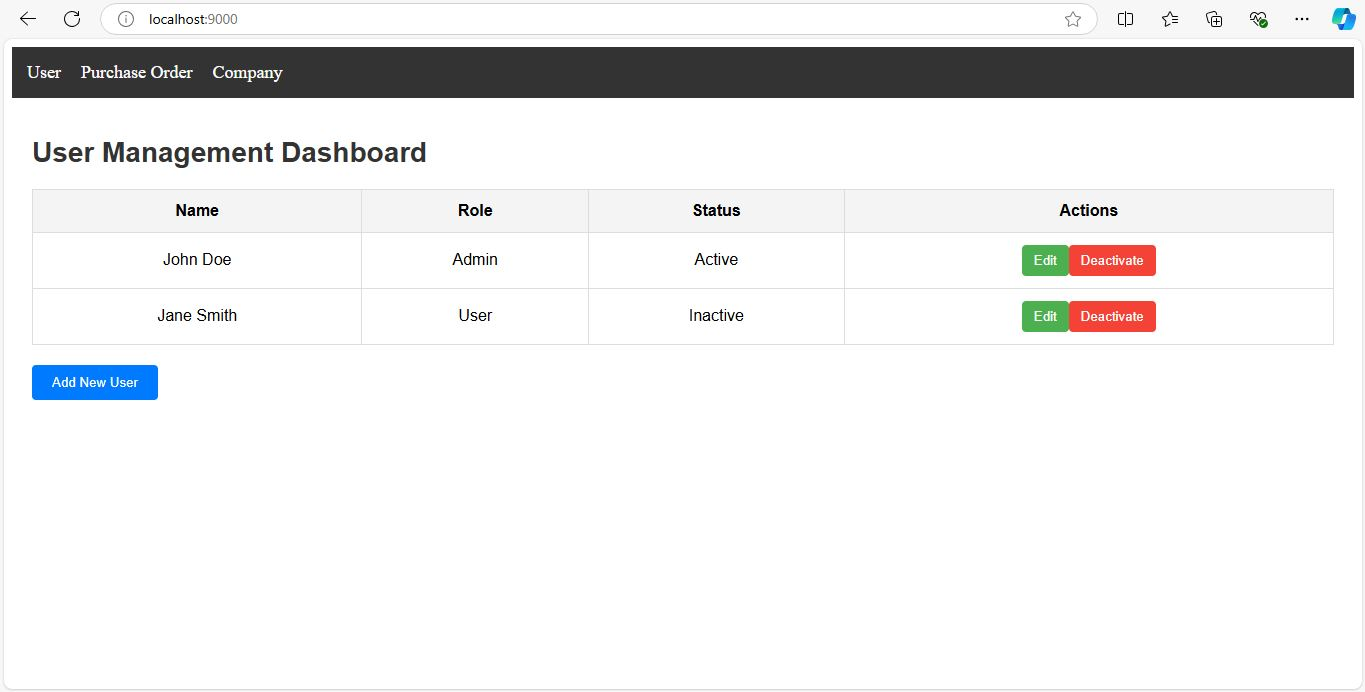
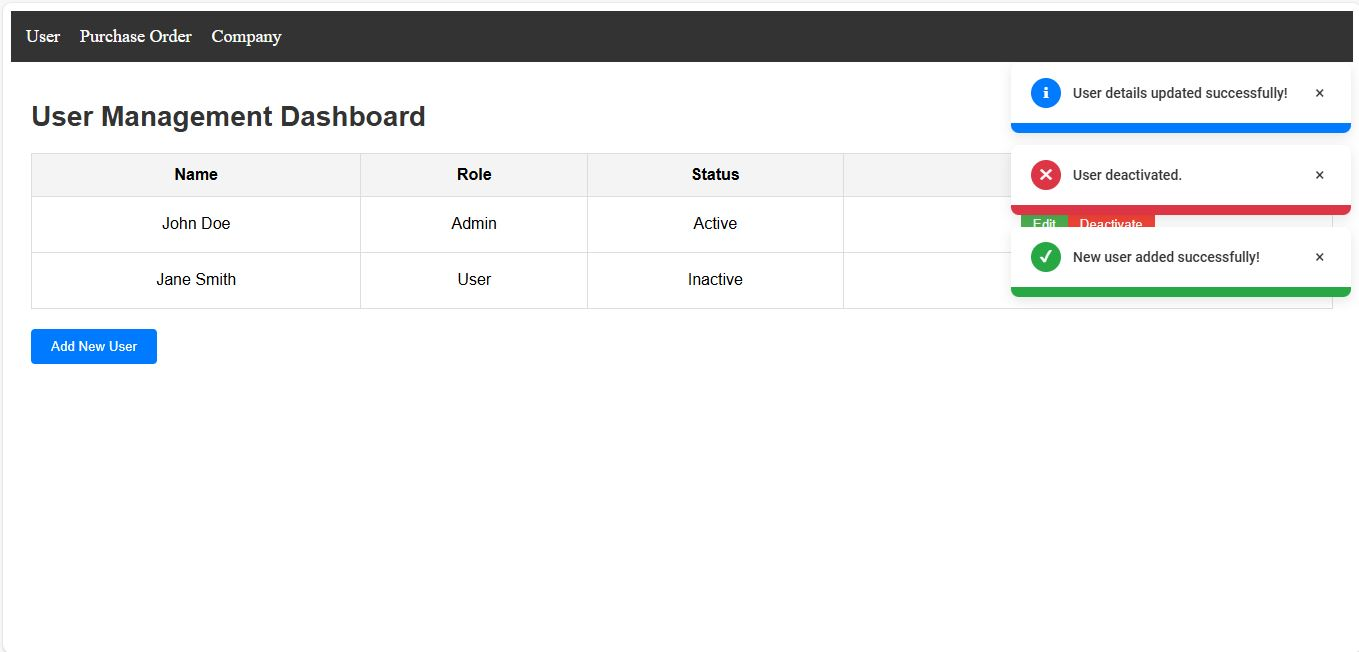
change: toast styling, screenshots

diff --git a/container/src/Toast.js b/container/src/Toast.js
@@ -1,21 +1,28 @@
 import React, { useState, useEffect } from "react";
 
+// Load Google Font
+const loadGoogleFont = () => {
+  const link = document.createElement("link");
+  link.href = "https://fonts.googleapis.com/css2?family=Roboto:wght@400;500;700&display=swap";
+  link.rel = "stylesheet";
+  document.head.appendChild(link);
+};
+
 const ToastContainer = () => {
   const [toasts, setToasts] = useState([]);
 
   useEffect(() => {
+    loadGoogleFont();
+
     const handleShowToast = (event) => {
       const { message, type } = event.detail;
-      const id = new Date().getTime(); 
+      const id = new Date().getTime();
 
-      setToasts((prevToasts) => [
-        ...prevToasts,
-        { message, type, id },
-      ]);
+      setToasts((prevToasts) => [...prevToasts, { message, type, id }]);
 
       setTimeout(() => {
         setToasts((prevToasts) => prevToasts.filter((toast) => toast.id !== id));
-      }, 3000);
+      }, 10000);
     };
 
     window.addEventListener("showToast", handleShowToast);
@@ -37,10 +44,15 @@ const ToastContainer = () => {
           style={{
             ...toastStyle,
             ...toastType[toast.type],
-            animation: "slideIn 0.5s, fadeOut 0.6s 2.4s forwards",
+            animation: "slideInRight 0.3s ease, fadeOut 0.6s 4.4s forwards",
           }}
         >
-          <span>{toast.message}</span>
+          <div style={iconAndMessageStyle}>
+            <div style={{ ...iconStyle, ...iconBackground[toast.type] }}>
+              <span>{toastIcons[toast.type]}</span>
+            </div>
+            <span>{toast.message}</span>
+          </div>
           <button onClick={() => removeToast(toast.id)} style={dismissButtonStyle}>
             &times;
           </button>
@@ -50,51 +62,106 @@ const ToastContainer = () => {
   );
 };
 
-// Styles
+// Styles for the Toast Container
 const toastContainerStyle = {
   position: "fixed",
-  top: 10,
+  top: 60,
   right: 10,
   zIndex: 1000,
+  display: "flex",
+  flexDirection: "column",
+  gap: "12px",
 };
 
+// Styles for individual Toasts with a white background
 const toastStyle = {
-  padding: "10px 20px",
-  borderRadius: "5px",
-  marginBottom: "10px",
-  color: "white",
+  padding: "15px 20px",
+  borderRadius: "8px",
+  boxShadow: "0 4px 12px rgba(0, 0, 0, 0.1)",
+  backgroundColor: "white", // White background for the toast
+  color: "#333", // Darker text for readability
   display: "flex",
   justifyContent: "space-between",
   alignItems: "center",
-  transform: "translateX(0)",
-  opacity: 1,
-  animation: "slideIn 0.3s",
+  minWidth: "300px",
+  maxWidth: "400px",
+  fontFamily: "'Roboto', sans-serif", // Apply the Roboto font
+  fontSize: "14px",
+  fontWeight: "500", // Font weight for a professional look
+  lineHeight: "1.5",
+  borderBottom: "10px solid",
 };
 
+// Style for the dismiss button
 const dismissButtonStyle = {
   background: "transparent",
   border: "none",
-  color: "white",
-  fontSize: "16px",
-  marginLeft: "10px",
+  color: "#333",
+  fontSize: "18px",
+  marginLeft: "15px",
   cursor: "pointer",
 };
 
-// Toast types styling
-const toastType = {
-  success: { backgroundColor: "green" },
-  error: { backgroundColor: "red" },
-  info: { backgroundColor: "blue" },
+// Style for icon and message wrapper
+const iconAndMessageStyle = {
+  display: "flex",
+  alignItems: "center",
+  gap: "12px", // Increased gap for better spacing between icon and message
 };
 
-// Keyframe animations for slide-in and fade-out
+// Icon styles with white icon and circular background based on toast type
+const iconStyle = {
+  display: "flex",
+  alignItems: "center",
+  justifyContent: "center",
+  width: "30px",
+  height: "30px",
+  borderRadius: "50%",
+  color: "white", // White icon color
+  fontSize: "16px",
+};
+
+// Background color for icon circle based on toast type
+const iconBackground = {
+  success: {
+    backgroundColor: "#28a745", // Green background for success
+  },
+  error: {
+    backgroundColor: "#dc3545", // Red background for error
+  },
+  info: {
+    backgroundColor: "#007bff", // Blue background for info
+  },
+};
+
+// Icon characters based on toast type
+const toastIcons = {
+  success: "✔", // Checkmark for success
+  error: "✖", // Cross for error
+  info: "ℹ", // Exclamation mark for info
+};
+
+// Toast type styles (success, error, info) with colored bottom border
+const toastType = {
+  success: {
+    borderBottomColor: "#28a745", // Green for success
+  },
+  error: {
+    borderBottomColor: "#dc3545", // Red for error
+  },
+  info: {
+    borderBottomColor: "#007bff", // Blue for info
+  },
+};
+
+// Keyframe animations
 const styles = document.createElement("style");
 styles.type = "text/css";
 styles.innerHTML = `
-@keyframes slideIn {
+@keyframes slideInRight {
   from {
     transform: translateX(100%);
-    opacity: 1;
+    opacity: 0;
   }
   to {
     transform: translateX(0);
@@ -103,7 +170,11 @@ styles.innerHTML = `
 }
 
 @keyframes fadeOut {
-  to {
+  0% {
+    opacity: 1;
+    transform: translateX(0);
+  }
+  100% {
     opacity: 0;
     transform: translateX(100%);
   }

diff --git a/README.md b/README.md
@@ -21,13 +21,11 @@ The other two microfrontend about and contact are served on localhost 8080 and 8
 ## Screenshots
 
 ### Screenshot 1: Main Interface
-![Main Interface](./screenshots/01.jpeg)
+![Main Interface](./screenshots/01.JPG)
 
 ### Screenshot 2: Purchase Order
-![User Dashboard](./screenshots/02.jpeg)
+![User Dashboard](./screenshots/02.JPG)
 
 ### Screenshot 3: Company Detail
-![Settings Page](./screenshots/03.jpeg)
+![Settings Page](./screenshots/03.JPG)
 
-### Screenshot 4: User Deactivating Toast
-![Notification Configuration](./screenshots/04.jpeg)
